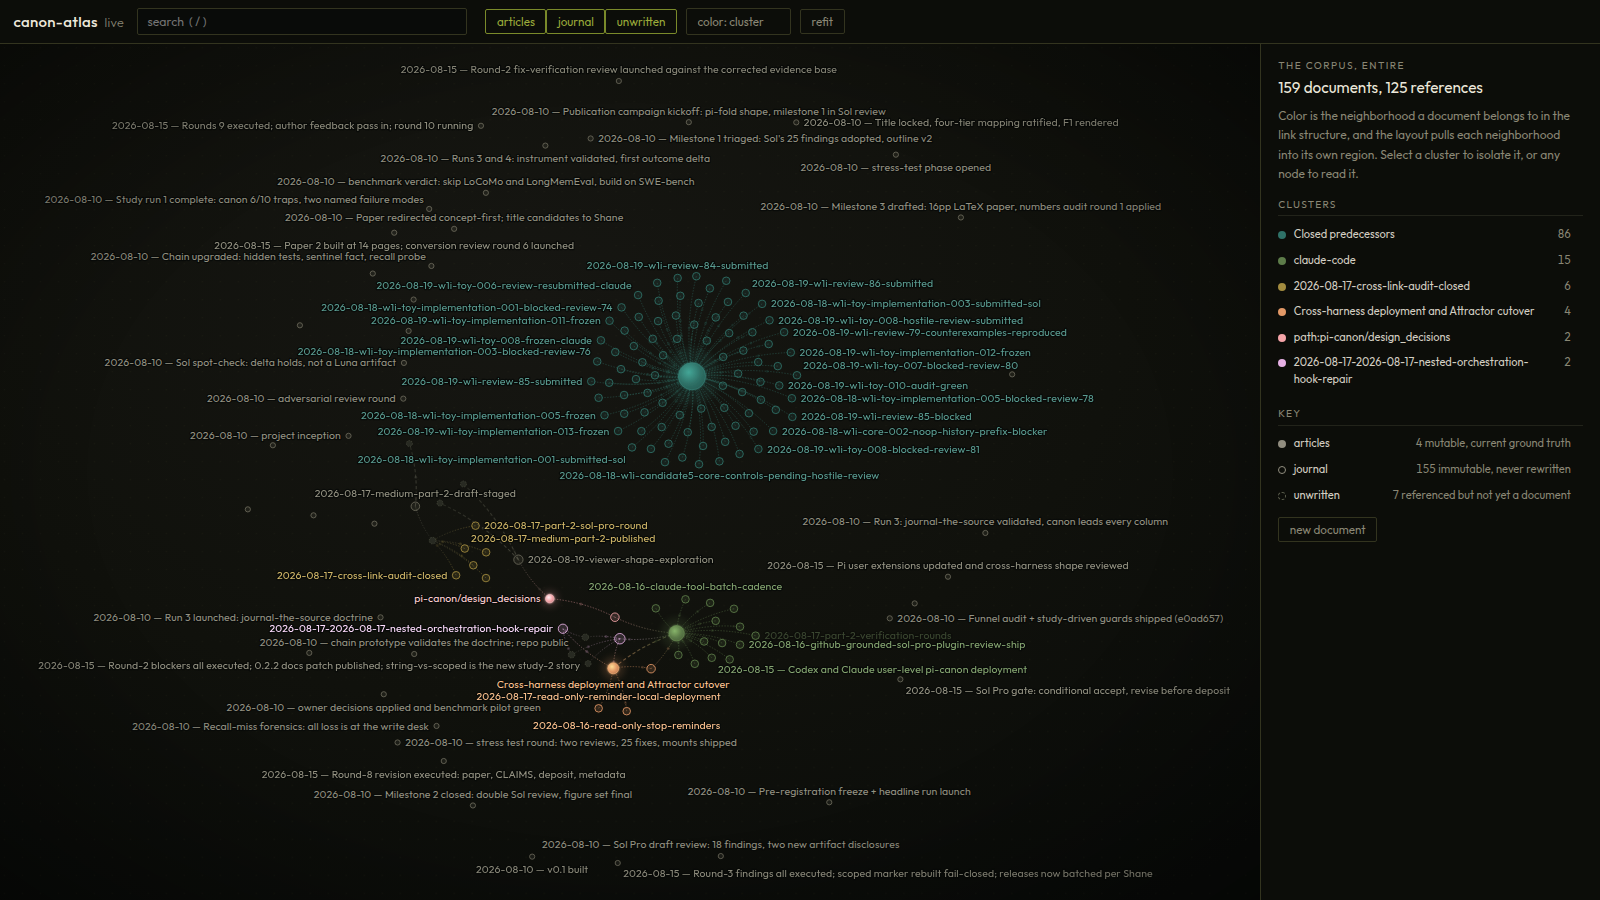
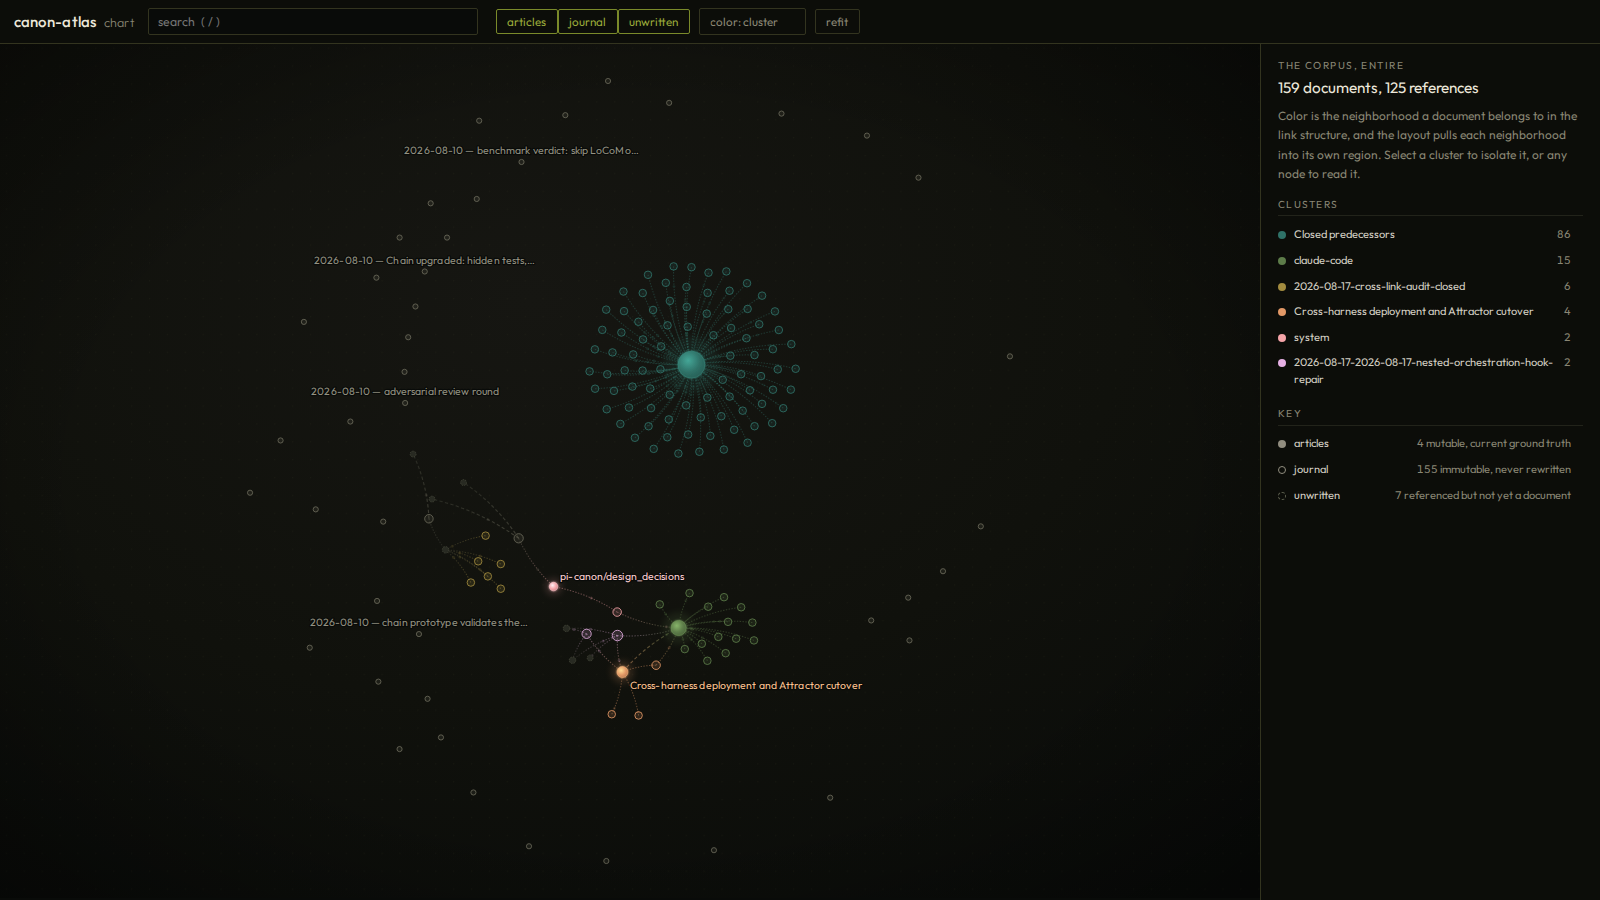
Zoom-tiered labels, truncation, path tags as source metadata

diff --git a/src/ui/app.js b/src/ui/app.js
@@ -64,7 +64,6 @@
   function reduced() {
     return window.matchMedia && window.matchMedia("(prefers-reduced-motion: reduce)").matches;
   }
-
   var EDGE = {
     wikilink: { dash: "7 5", dist: 118, strength: 0.3, base: 0.5, w: 1.1 },
     mdlink: { dash: "7 5", dist: 118, strength: 0.3, base: 0.5, w: 1.1 },
@@ -81,6 +80,8 @@
     var G = shapeData(data, keepPos);
     var live = data.mode === "live";
     var cleanup = [];
+
+    AtlasLabels.assignTiers(G.nodes);
 
     /* ── color modes ──────────────────────────────────────────────────── */
 
@@ -314,7 +315,7 @@
       .attr("class", "lbl")
       .attr("text-anchor", "middle").attr("paint-order", "stroke")
       .attr("stroke", C.bg).attr("stroke-width", 2.4).attr("stroke-linejoin", "round")
-      .text(function (n) { return n.title; });
+      .text(function (n) { return n._label; });
     function tintLabels() {
       labelSel.attr("fill", function (n) {
         return n.exists ? d3.hcl(d3.color(n.color)).brighter(0.9) + "" : C.dim;
@@ -328,7 +329,7 @@
       labelSel.each(function (n) {
         var fs = labelSize(n);
         this.style.fontSize = fs + "px";
-        try { n._lw = this.getComputedTextLength(); } catch (e) { n._lw = n.title.length * fs * 0.5; }
+        try { n._lw = this.getComputedTextLength(); } catch (e) { n._lw = n._label.length * fs * 0.5; }
       });
     }
 
@@ -445,6 +446,7 @@
       if (n.exists) t.style.color = d3.hcl(d3.color(n.color)).brighter(1.1) + "";
       side.appendChild(t);
       if (n.path) side.appendChild(el("p", "side-path", n.path + (n.date ? "  ·  " + n.date : "")));
+      if (n.sourcePath) side.appendChild(el("p", "side-path", "source: " + n.sourcePath));
       if (!n.exists) {
         side.appendChild(el("p", "side-meta",
           "Named by " + inOf[n.id].length + " document" + (inOf[n.id].length === 1 ? "" : "s") +
@@ -670,9 +672,11 @@
         if (f) { if (a === f) return -1; if (b === f) return 1; }
         return b.degree - a.degree;
       }).forEach(function (n) {
-        if (!f && !q && !n.exists && t.k < 1.25) return;
-        var fs = labelSize(n) * t.k;
-        var w = (n._lw || n.title.length * labelSize(n) * 0.5) + 9, h = fs * 1.2 + 5;
+        if (!f && !q && t.k < n._minK) return;
+        /* Labels render at a screen-constant size (font-size is labelSize/k
+           inside a group scaled by k), so the reservation box must be screen
+           constant too, or zooming in blockades placement with phantom height. */
+        var w = (n._lw || n._label.length * labelSize(n) * 0.5) + 9, h = labelSize(n) * 1.2 + 5;
         var cx = n.x * t.k + t.x, cy = n.y * t.k + t.y;
         for (var c = 0; c < CAND.length; c++) {
           var box = candBox(n, CAND[c], cx, cy, w, h, t.k);
@@ -920,7 +924,8 @@
     var strip = document.createElement("div");
     nodes.forEach(function (n) {
       strip.innerHTML = n.html || "";
-      n._search = (n.title + " " + (n.address || "") + " " + (n.tags || []).join(" ") + " " + strip.textContent).toLowerCase();
+      n._label = AtlasLabels.truncateLabel(n.title);
+      n._search = (n.title + " " + (n.address || "") + " " + (n.sourcePath || "") + " " + (n.tags || []).join(" ") + " " + strip.textContent).toLowerCase();
       if (keepPos) {
         var p = keepPos[n.exists ? n.path : "?" + n.title.toLowerCase()];
         if (p) { n.x = p.x; n.y = p.y; }

diff --git a/README.md b/README.md
@@ -22,7 +22,7 @@ The two modes share one page.
 
 A corpus is described by collections: named groups of documents with their own frontmatter mapping and their own mutability. Without configuration:
 
-- A root holding `articles/` and `journal/` gets the **pi-canon preset**: articles are mutable, the journal is immutable and append-only, `capsule` becomes the summary, and a journal entry's `subject` list becomes edges to the articles it concerns.
+- A root holding `articles/` and `journal/` gets the **pi-canon preset**: articles are mutable, the journal is immutable and append-only, `capsule` becomes the summary, a journal entry's `subject` list becomes edges to the articles it concerns, and tags of the form `path:VALUE`, which a migrated store carries as provenance, become source metadata instead of tags.
 - Anything else is read as a single mutable collection of notes.
 
 To define your own, put a `canon-atlas.json` at the root:
@@ -57,6 +57,8 @@ Clusters come from the best signal available:
 - **Link structure** otherwise: deterministic greedy modularity over the reference graph, at zero cost, fully offline.
 
 A header toggle can also color by collection or by tag.
+
+Labels reveal progressively with zoom: the most central documents keep their names at any distance, and the rest earn them as you approach.
 
 ## Vocabulary
 
